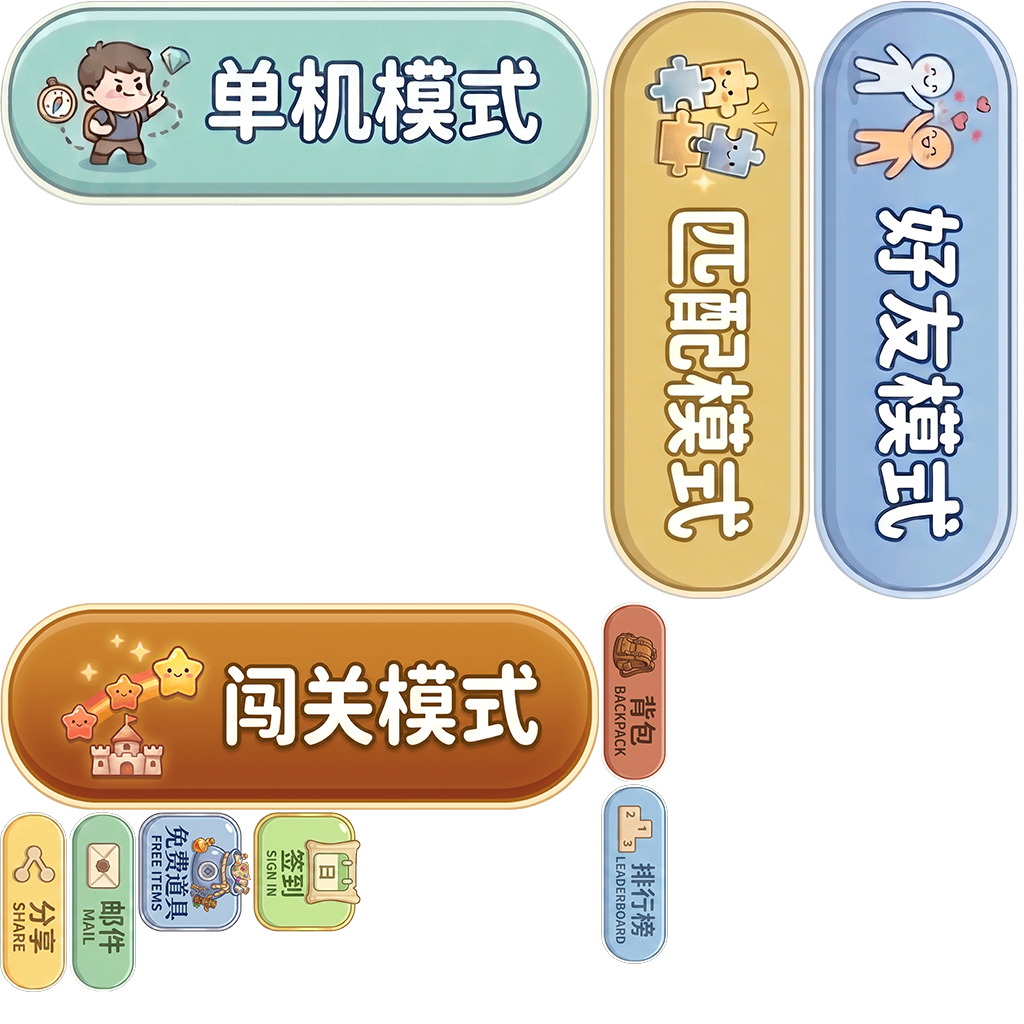
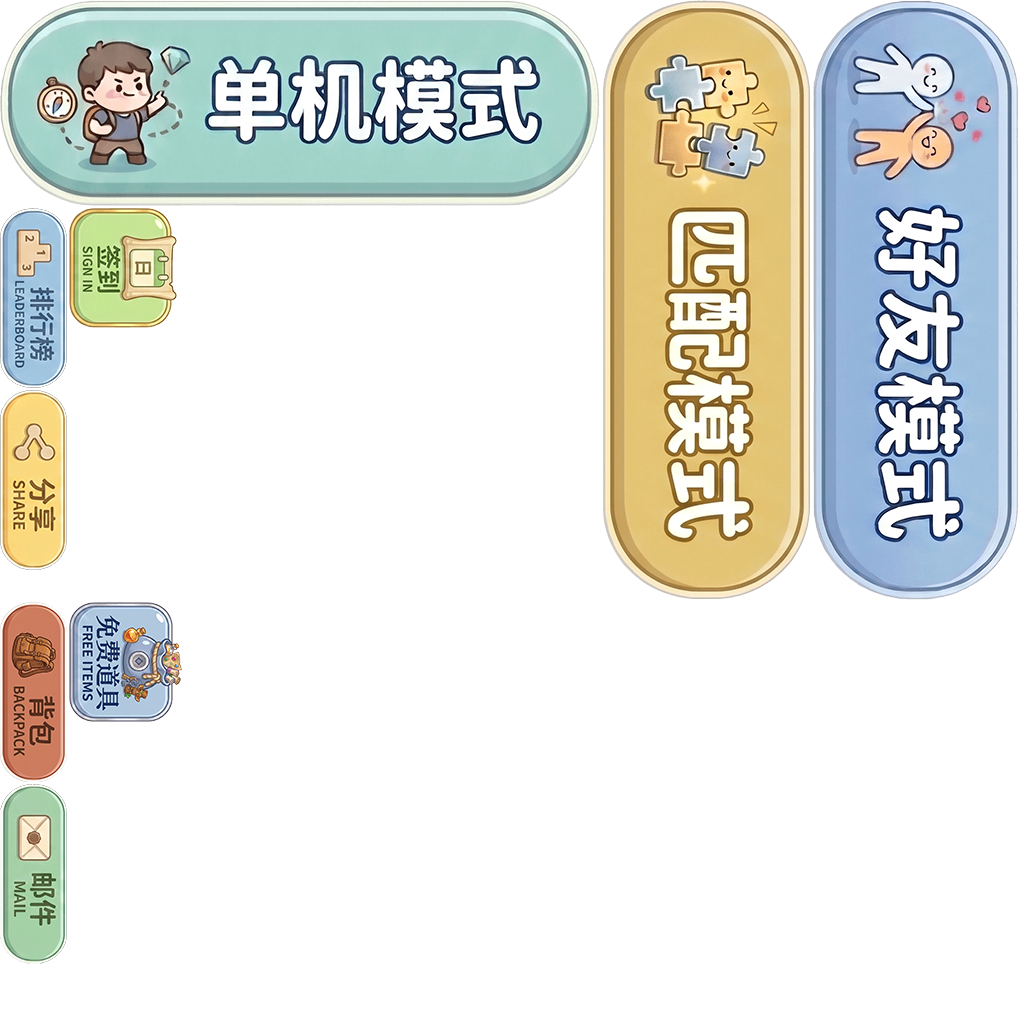
feat: 调整房间按钮位置，移除挑战按钮相关代码

Changed region(s): [[0.0, 0.5625, 0.6562, 0.9688], [0.0, 0.1875, 0.1875, 0.5625]]

diff --git a/assets/scripts/fgui/lobby/FGUICompLobbyMain.ts b/assets/scripts/fgui/lobby/FGUICompLobbyMain.ts
@@ -20,7 +20,6 @@ export default class FGUICompLobbyMain extends fgui.GComponent {
 	public UI_BTN_AD:fgui.GButton;
 	public UI_TXT_ENV:fgui.GTextField;
 	public UI_BTN_BAG:fgui.GButton;
-	public UI_BTN_CHALLENGE:fgui.GButton;
 	public static URL:string = "ui://gv22rev3ln74i";
 
 	public static packageName:string = "lobby";
@@ -104,8 +103,6 @@ export default class FGUICompLobbyMain extends fgui.GComponent {
 		this.UI_TXT_ENV = <fgui.GTextField>(this.getChildAt(9));
 		this.UI_BTN_BAG = <fgui.GButton>(this.getChildAt(10));
 		this.UI_BTN_BAG.onClick(this.onBtnBag, this);
-		this.UI_BTN_CHALLENGE = <fgui.GButton>(this.getChildAt(11));
-		this.UI_BTN_CHALLENGE.onClick(this.onBtnChallenge, this);
 		if (this.enableAnimation) this.enterAnimation();
 	}
 	scheduleOnce(callback: () => void, delay: number):void{};
@@ -121,6 +118,5 @@ export default class FGUICompLobbyMain extends fgui.GComponent {
 	onBtnSignIn():void{};
 	onBtnAd():void{};
 	onBtnBag():void{};
-	onBtnChallenge():void{};
 }
 fgui.UIObjectFactory.setExtension(FGUICompLobbyMain.URL, FGUICompLobbyMain);
